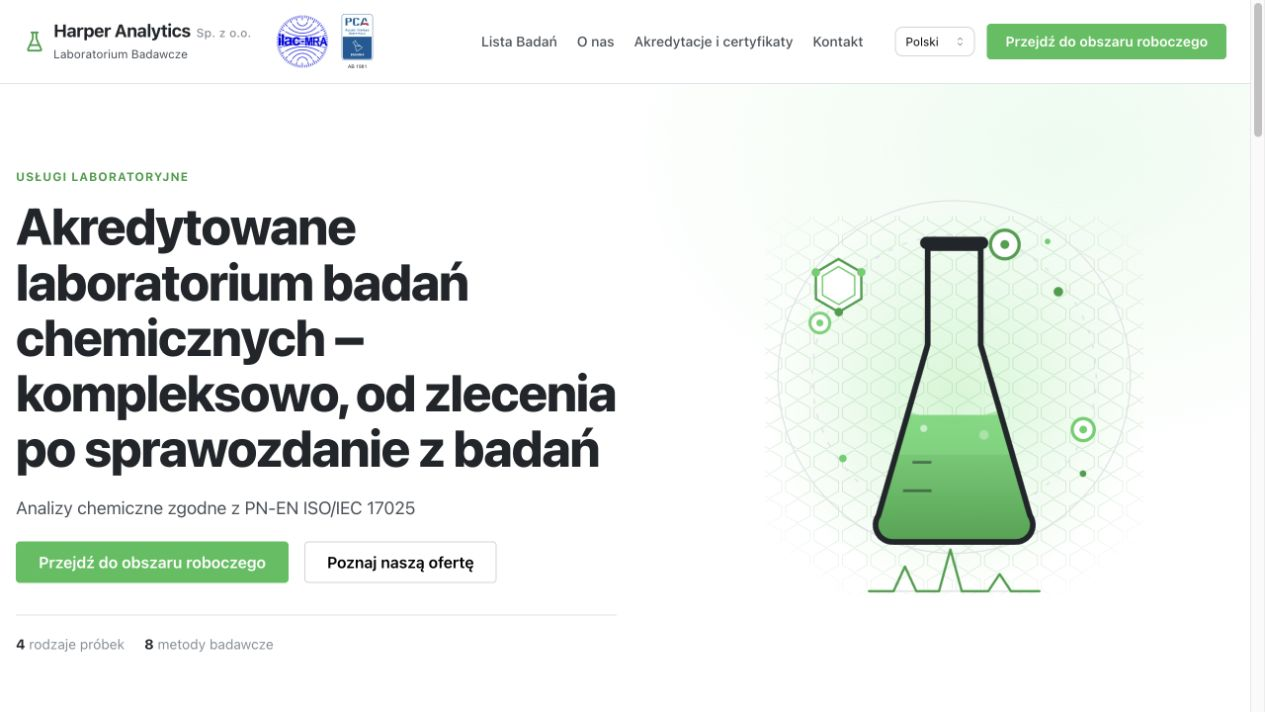
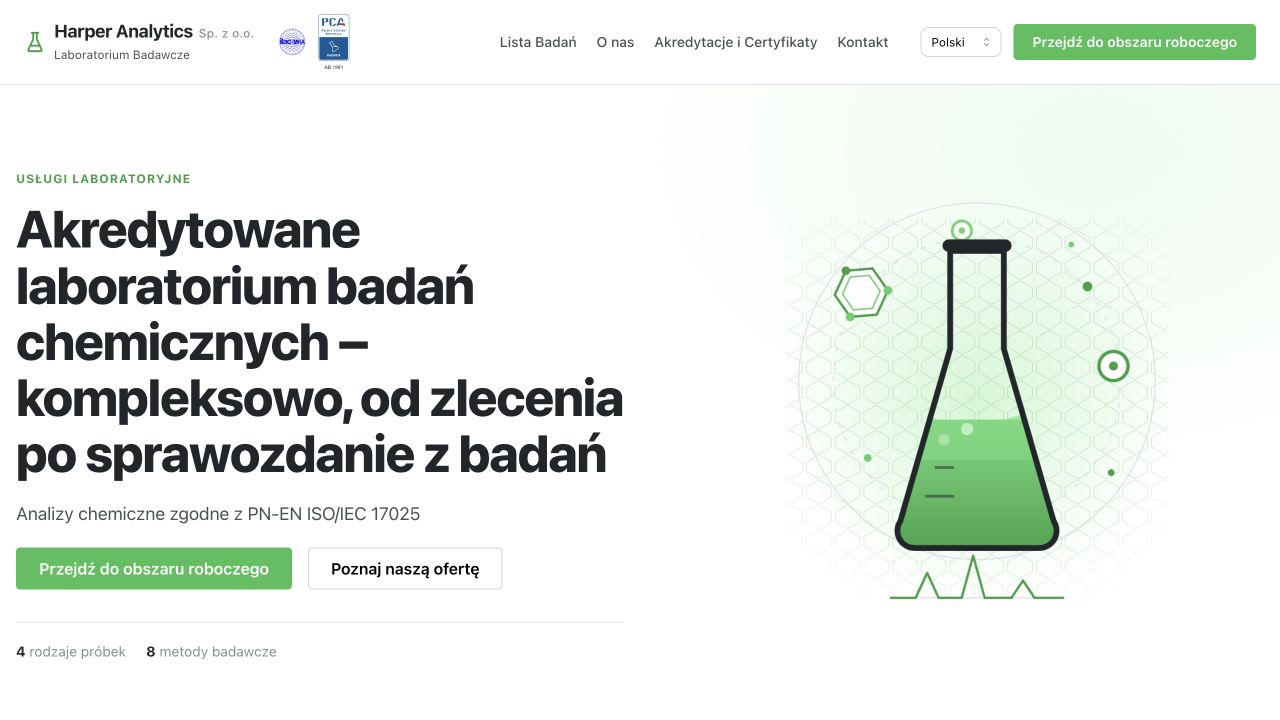
Refine accreditation label and halve ILAC mark size

diff --git a/apps/web/src/components/landing/Landing.tsx b/apps/web/src/components/landing/Landing.tsx
@@ -501,7 +501,7 @@ function AccreditationMarks({ compact = false }: { compact?: boolean }) {
         width={1022}
         height={1038}
         unoptimized
-        className={classes.accreditationLogo}
+        className={`${classes.accreditationLogo} ${classes.ilacLogo}`}
       />
       <Image
         src="/certificates/ab-1981.svg"

diff --git a/apps/web/src/components/landing/landing.module.css b/apps/web/src/components/landing/landing.module.css
@@ -442,6 +442,10 @@
   object-fit: contain;
 }
 
+.ilacLogo {
+  height: calc(var(--accreditation-logo-height) / 2);
+}
+
 .accreditationCopy {
   line-height: 1.6;
 }
